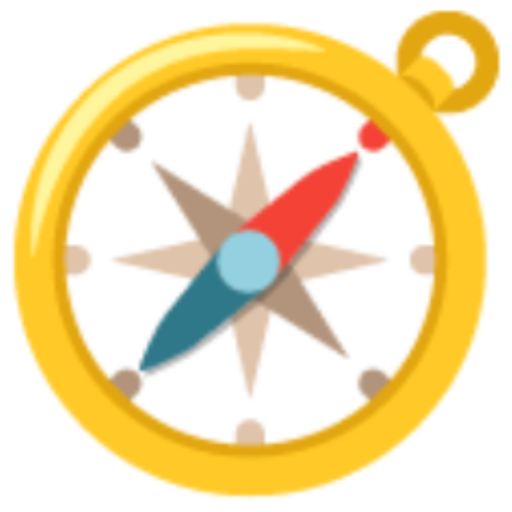
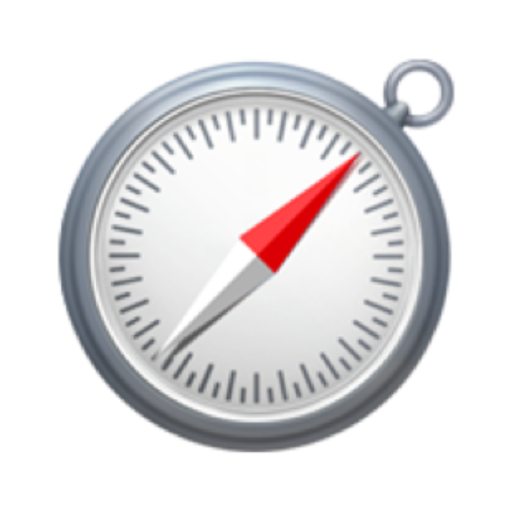
visual design

diff --git a/state/index.js b/state/index.js
@@ -54,12 +54,8 @@ state.connect = function (peer) {
   const proto = `${peer.secure ? 'wss' : 'ws'}://`
   const url = `${proto}${peer.host}`
   const socket = state.socket = new WebSocket(url)
-  state.mode = null
-  state.heading = null
-  state.timeout = setTimeout(() => {
-    state.error = new Error('websocket failed to open')
-    socket.close()
-  }, 2500)
+  state.mode = state.heading = state.headingLocked = null
+  state.timeout = setTimeout(() => socket.close(), 2500)
   socket.authenticated = false
   socket.addEventListener('open', () => {
     socket.didOpen = true
@@ -67,20 +63,21 @@ state.connect = function (peer) {
     state.timeout = setTimeout(() => {
       state.error = new Error('websocket was unresponsive')
       socket.close()
-    }, 2500)
+    }, 5000)
     socket.send('rw:' + peer.preSharedKey)
   })
   socket.addEventListener('close', () => {
+    clearTimeout(state.timeout)
     delete state.buffer
     delete state.socket
-    if (!state.error) {
+    if (!socket.userClosed) {
       if (socket.didOpen) {
-        state.error = new Error('websocket closed unexpectedly')
+        if (!state.error || state.error.message.indexOf('No data seen') === 0) {
+          state.error = new Error('websocket closed unexpectedly')
+        }
       } else {
         state.error = new Error('websocket failed to open')
       }
-    } else if (state.error.message === 'disconnect') {
-      delete state.error
     }
     state.dispatchEvent(new Event('change'))
   })
@@ -105,7 +102,7 @@ state.connect = function (peer) {
 state.disconnect = function () {
   clearTimeout(state.timeout)
   if (state.socket) {
-    state.error = new Error('disconnect')
+    state.socket.userClosed = true
     state.socket.close()
   } else {
     state.dispatchEvent(new Event('change'))
@@ -113,9 +110,11 @@ state.disconnect = function () {
 }
 
 state.wait = function (shouldDispatch = true) {
+  clearTimeout(state.timeout)
   if (state.socket) {
     state.timeout = setTimeout(() => {
-      state.error = new Error('websocket became unresponsive')
+      state.mode = state.heading = state.headingLocked = null
+      state.error = new Error('No data seen for > 5 seconds')
       state.dispatchEvent(new Event('change'))
     }, 5000)
   }
@@ -126,9 +125,9 @@ state.wait = function (shouldDispatch = true) {
 
 state.toggleMode = function () {
   const mode = !state.mode ? 0x40 : 0x00
-  sendNmea(0, 204, 126208, [0x00, 0x11, 0x01, 0x63, 0xff, 0x00, 0xf8, 0x04])
-  sendNmea(0, 204, 126208, [0x01, 0x01, 0x3b, 0x07, 0x03, 0x04, 0x04, mode])
-  sendNmea(0, 204, 126208, [0x02, 0x00, 0x05, 0xff, 0xff, 0xff, 0xff, 0xff])
+  sendNmea({ destination: 204, pgn: 126208, data: [0x00, 0x11, 0x01, 0x63, 0xff, 0x00, 0xf8, 0x04] })
+  sendNmea({ destination: 204, pgn: 126208, data: [0x01, 0x01, 0x3b, 0x07, 0x03, 0x04, 0x04, mode] })
+  sendNmea({ destination: 204, pgn: 126208, data: [0x02, 0x00, 0x05, 0xff, 0xff, 0xff, 0xff, 0xff] })
 }
 
 state.changeHeading = function (degrees) {
@@ -143,9 +142,9 @@ state.changeHeading = function (degrees) {
 state.setHeading = function (heading) {
   let big = heading >> 8
   let small = heading & 0xff
-  sendNmea(0, 204, 126208, [0x00, 0x0e, 0x01, 0x50, 0xff, 0x00, 0xf8, 0x03])
-  sendNmea(0, 204, 126208, [0x01, 0x01, 0x3b, 0x07, 0x03, 0x04, 0x06, small])
-  sendNmea(0, 204, 126208, [0x02, big, 0xff, 0xff, 0xff, 0xff, 0xff, 0xff])
+  sendNmea({ destination: 204, pgn: 126208, data: [0x00, 0x0e, 0x01, 0x50, 0xff, 0x00, 0xf8, 0x03] })
+  sendNmea({ destination: 204, pgn: 126208, data: [0x01, 0x01, 0x3b, 0x07, 0x03, 0x04, 0x06, small] })
+  sendNmea({ destination: 204, pgn: 126208, data: [0x02, big, 0xff, 0xff, 0xff, 0xff, 0xff, 0xff] })
 }
 
 function receiveNmea (lines) {
@@ -178,7 +177,8 @@ function receiveNmea (lines) {
   })
 }
 
-function sendNmea (source, destination, pgn, data) {
+function sendNmea (params) {
+  const { source, destination, pgn, data } = params
   const cmd = raw.encode({
     id: can.encode({
       pgn,

diff --git a/index.css b/index.css
@@ -11,7 +11,11 @@ html,
 body {
   margin: 0;
   padding: 0;
+  color: #fff;
+  width: 100%;
   height: 100%;
+  background: #000;
+  position: fixed;
 }
 
 body {
@@ -36,6 +40,7 @@ x-app {
   height: 100%;
   padding: 1rem;
   font-size: 1rem;
+  text-align: center;
 }
 
 h1,h2,h3,h4,h5,h6 {
@@ -55,11 +60,14 @@ h3 {
 input[type="text"],
 input[type="password"] {
   padding: 0.5rem;
-  border: 1px solid #ccc;
+  border: none;
   border-radius: 0;
   font-size: 1rem;
   width: 100%;
   -webkit-appearance: none;
+  background: #191919;
+  color: #aaa;
+  text-align: center;
 }
 
 input:focus {
@@ -70,7 +78,7 @@ form {
   display: flex;
   flex-direction: column;
   width: 100%;
-  max-width: 640px;
+  max-width: 480px;
 }
 
 form > * {
@@ -80,35 +88,32 @@ form > * {
 
 button {
   cursor: pointer;
+  margin: 0;
   padding-left: 1rem;
   padding-right: 1rem;
-  padding-top: 0.5rem;
-  padding-bottom: 0.5rem;
+  padding-top: 1rem;
+  padding-bottom: 1rem;
+  border-radius: 1rem;
   -webkit-appearance: none;
   appearance: none;
   border: 0;
+  font-size: 1rem;
+  font-weight: 600;
+  background: #333;
+  color: #fff;
 }
 
-.loading,
-.not-found {
-  position: relative;
+[disabled="disabled"] {
+  opacity: 0.25;
 }
 
-.loading:after,
-.not-found:after {
-  position: absolute;
-  width: 100%;
-  height: 100%;
-  top: 0;
-  left: 0;
-  display: flex;
-  content: "Loading...";
-  padding: 1rem;
-  background-color: #FFF;
+.red {
+  background-color: #ff3300;
 }
 
-.not-found:after {
-  content: "Not found";
+.white {
+  background-color: #fff;
+  color: #000;
 }
 
 .hidden {

diff --git a/connected/index.js b/connected/index.js
@@ -5,13 +5,13 @@ const circle = Math.PI * 2
 
 const template = document.createElement('template')
 template.innerHTML = `<div class=row>
-  <button id=mode>Lock</button>
+  <button id=mode>Standby</button>
   <button id=disconnect>Disconnect</button>
 </div>
 <div id=heading></div>
 <div class=row>
-  <button id=left>Port</button>
-  <button id=right>Starboard</button>
+  <button id=left>-1\u00b0</button>
+  <button id=right>+1\u00b0</button>
 </div>`
 
 class Connected extends HTMLElement {
@@ -34,17 +34,24 @@ class Connected extends HTMLElement {
 
   render () {
     let heading = state.mode === true ? state.headingLocked : state.heading
-    if (heading === null) {
-      heading = NaN
-    } else {
-      heading = Math.round(heading / 100 / circle * 360) / 100
+    if (heading !== null) {
+      heading = Math.round(heading / 10000 / circle * 360)
     }
     hb(this, {
-      '#mode,#left,#right': {
+      '#mode': {
         $attr: { disabled: state.mode === null ? 'disabled' : null },
       },
-      '#mode': state.mode ? 'Unlock' : 'Lock',
-      '#heading': `${isNaN(heading) ? '0' : heading}\u00b0`
+      '#left,#right': {
+        $attr: { disabled: !state.mode ? 'disabled' : null },
+      },
+      '#mode': {
+        $text: state.mode ? 'Auto' : 'Standby',
+        $class: { red: !state.mode, white: state.mode }
+      },
+      '#heading': {
+        $text: `${heading === null ? '0' : heading}\u00b0`,
+        $attr: { disabled: heading === null ? 'disabled' : null },
+      }
     })
   }
 

diff --git a/public/index.html b/public/index.html
@@ -2,14 +2,14 @@
 <html>
   <head>
     <title>Autopilot Remote</title>
-    <meta name=viewport content="width=device-width, initial-scale=1, maximum-scale=1, user-scalable=no">
+    <meta name=viewport content="width=device-width,initial-scale=1,minimum-scale=1,maximum-scale=1,user-scalable=no">
     <meta name=apple-mobile-web-app-capable content=yes>
     <link rel=manifest href=/manifest.json>
     <link rel=stylesheet href=/app/index.css>
-    <link rel="apple-touch-icon" sizes="180x180" href="/apple-touch-icon.png">
-    <link rel="icon" type="image/png" sizes="32x32" href="/favicon-32x32.png">
-    <link rel="icon" type="image/png" sizes="16x16" href="/favicon-16x16.png">
-    <link rel="manifest" href="/site.webmanifest">
+    <link rel=apple-touch-icon sizes=180x180 href=/apple-touch-icon.png>
+    <link rel=icon type=image/png sizes=32x32 href=/favicon-32x32.png>
+    <link rel=icon type=image/png sizes=16x16 href=/favicon-16x16.png>
+    <link rel=manifest href=/site.webmanifest>
   </head>
   <body>
     <x-app></x-app>

diff --git a/connected/index.css b/connected/index.css
@@ -1,32 +1,36 @@
 x-connected.view {
-  padding: 0;
+  padding: 0.5rem;
 }
 
 x-connected #heading {
   flex-grow: 1;
-  font-size: 25vmin;
+  font-size: 35vmin;
+  font-weight: 600;
   display: flex;
   align-items: center;
 }
 
 x-connected .row {
-  display: flex;
   width: 100%;
+  display: grid;
+  grid-template-columns: 1fr 1fr;
+  grid-gap: 0.5rem;
 }
 
 x-connected .row button {
-  flex-grow: 1;
-  flex-basis: 100%;
+  padding-top: 1rem;
+  padding-bottom: 1rem;
+  font-size: 7min;
+}
+
+x-connected button {
+  background: #333;
+  border-radius: 1rem;
+}
+
+x-connected button#left,
+x-connected button#right{
+  font-size: 14vmin;
   padding-top: 2rem;
   padding-bottom: 2rem;
-}
-
-x-connected #mode,
-x-connected #left {
-  margin-right: 1px; 
-}
-
-x-connected #disconnect,
-x-connected #right {
-  margin-left: 1px;
 }

diff --git a/disconnected/index.js b/disconnected/index.js
@@ -2,12 +2,12 @@ import state from '../state/index.js'
 import hb from '/modules/hyperbind/index.js'
 
 const template = document.createElement('template')
-template.innerHTML = `<form>
+template.innerHTML = `<h1><div id=icon>${String.fromCodePoint(0x1F9ED)}</div>Autopilot Remote</h1><form>
   <label id=tls>
     <input name=secure type=checkbox>
     <span>Use TLS</span>
   </label>
-  <input name=host placeholder=Host type=text>
+  <input name=host placeholder=Host type=text autocapitalize=off autocomplete=off>
   <input name=preSharedKey placeholder=Password type=password>
   <button type=submit>Connect</button>
 </form>`

diff --git a/failure/index.js b/failure/index.js
@@ -3,9 +3,11 @@ import hb from '/modules/hyperbind/index.js'
 
 const template = document.createElement('template')
 template.innerHTML = `<h1></h1>
-<button id=reconnect>Reconnect</button>
-<button id=disconnect>Disconnect</button>
-<button id=wait>Wait</button>`
+<div class=row>
+  <button id=wait>Wait</button>
+  <button id=reconnect>Reconnect</button>
+  <button id=disconnect>Disconnect</button>
+</div>`
 
 class Failure extends HTMLElement {
   constructor () {

diff --git a/connecting/index.js b/connecting/index.js
@@ -24,8 +24,7 @@ class Connecting extends HTMLElement {
   }
 
   render () {
-    hb(this, {
-    })
+    // hb(this, {})
   }
   
   async onclick (evt) {
@@ -33,6 +32,9 @@ class Connecting extends HTMLElement {
     if (target.nodeName !== 'BUTTON') return
     switch (target.id) {
       case 'cancel':
+        state.disconnect()
+        break
+      default:
         console.log('click', target.id)
     }
   }

diff --git a/failure/index.css b/failure/index.css
@@ -1,7 +1,5 @@
-x-failure button {
-  margin-bottom: 0.5rem;
-}
-
-x-failure button:last-child {
-  margin-bottom: 0;
+x-failure .row {
+  display: grid;
+  grid-template-columns: 1fr 1fr;
+  grid-gap: 0.5rem;
 }

diff --git a/disconnected/index.css b/disconnected/index.css
@@ -1,3 +1,12 @@
+x-disconnected {
+  text-align: center;
+}
+
+x-disconnected #icon {
+  font-size: 5rem;
+  margin-bottom: 1rem;
+}
+
 x-disconnected button[type=submit] {
   margin-bottom: 0;
 }
